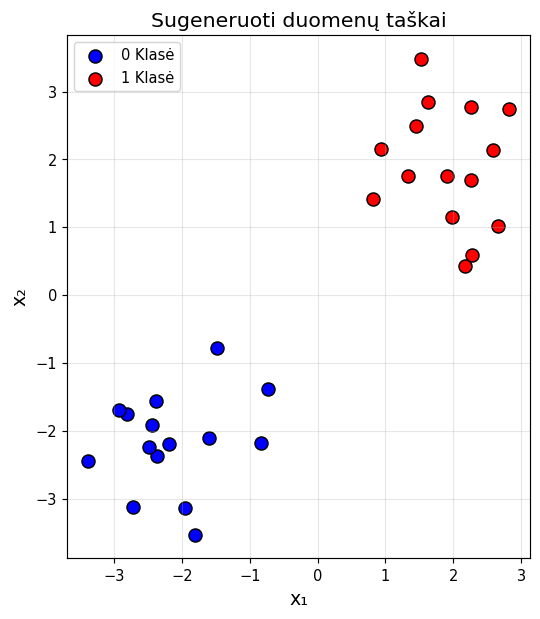
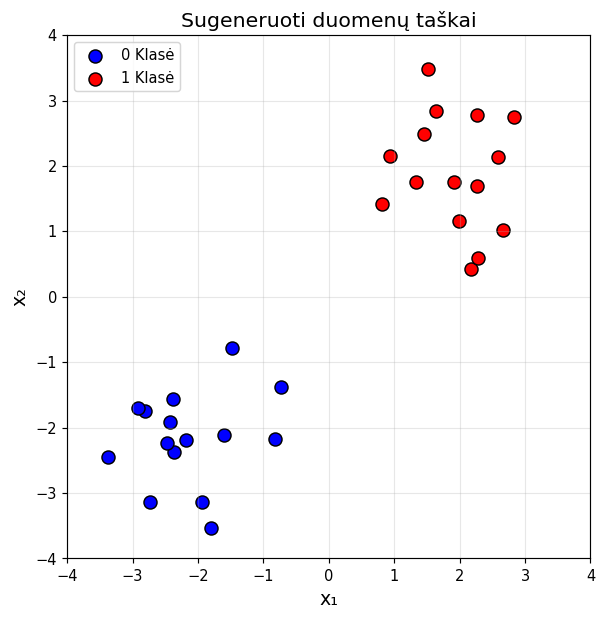
Display axis limits

diff --git a/generuoti_duomenis.py b/generuoti_duomenis.py
@@ -1,27 +1,25 @@
+from pathlib import Path
+
 import matplotlib.pyplot as plt
 import numpy as np
 
 from Config import config
 
-# Sukūriame bazinius folder'ius
+config.set_lab_dir(str(Path(__file__).parent))
+
 config.create_all_dirs()
 
-# Dvi klasės po 15 taškų
 np.random.seed(42)
 
 STANDARD_DEVIATION = 0.8
 
-# Klasė 0: taškai aplink centrą (-2, -2)
 class_0 = np.random.randn(15, 2) * STANDARD_DEVIATION + np.array([-2, -2])
 
-# Klasė 1: taškai aplink centrą (2, 2)
 class_1 = np.random.randn(15, 2) * STANDARD_DEVIATION + np.array([2, 2])
 
-# Sujungiame duomenis
 X = np.vstack([class_0, class_1])
 y = np.array([0] * 15 + [1] * 15)
 
-# Išsaugome į CSV failą
 data_full_path = config.get_data_path(config.starting_points_data_file)
 data = np.column_stack([X, y])
 np.savetxt(
@@ -34,7 +32,6 @@ np.savetxt(
 )
 print(f'Duomenys išsaugoti: {data_full_path}')
 
-# Atvaizduojame taškus Dekarto koordinačių sistemoje
 fig, ax = plt.subplots(figsize=(8, 6))
 ax.scatter(
 	class_0[:, 0],
@@ -54,10 +51,21 @@ ax.scatter(
 	edgecolors='black',
 	label='1 Klasė',
 )
+
+min_val = np.floor(X.min())
+max_val = np.ceil(X.max())
+
+ax.set_xlim(min_val, max_val)
+ax.set_ylim(min_val, max_val)
+
+ticks = np.arange(min_val, max_val + 1, 1)
+ax.set_xticks(ticks)
+ax.set_yticks(ticks)
+
 ax.set_xlabel('x₁', fontsize=13)
 ax.set_ylabel('x₂', fontsize=13)
 ax.set_title('Sugeneruoti duomenų taškai', fontsize=14)
-ax.legend()
+ax.legend(loc='upper left')
 ax.set_aspect('equal')
 ax.grid(True, alpha=0.3)
 
